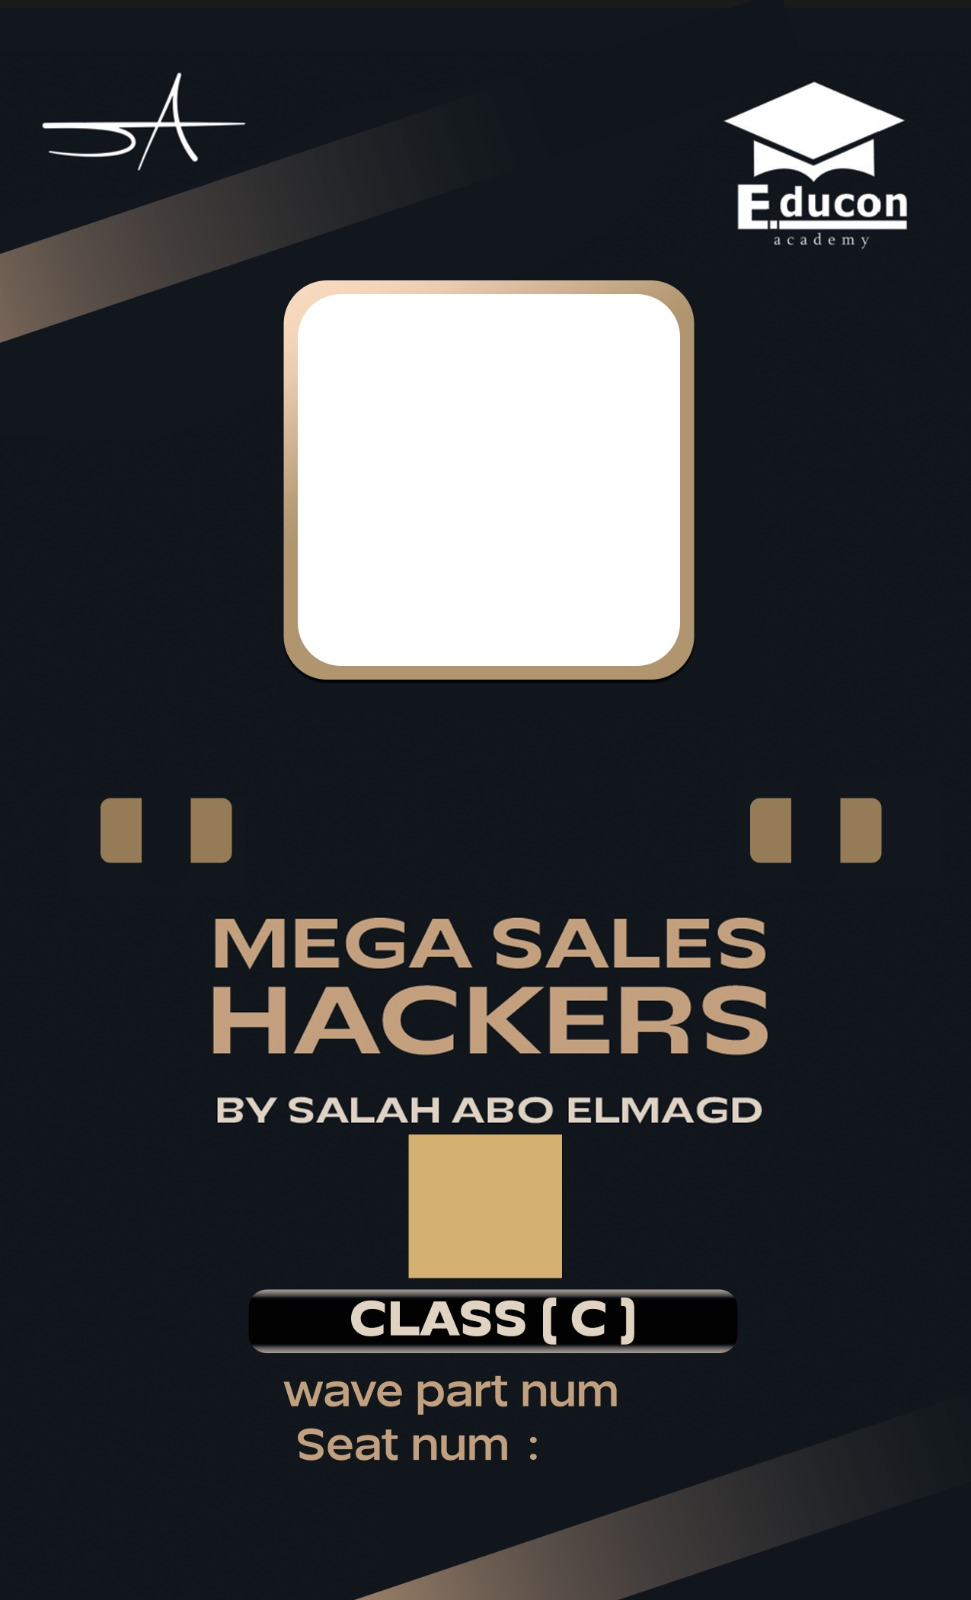
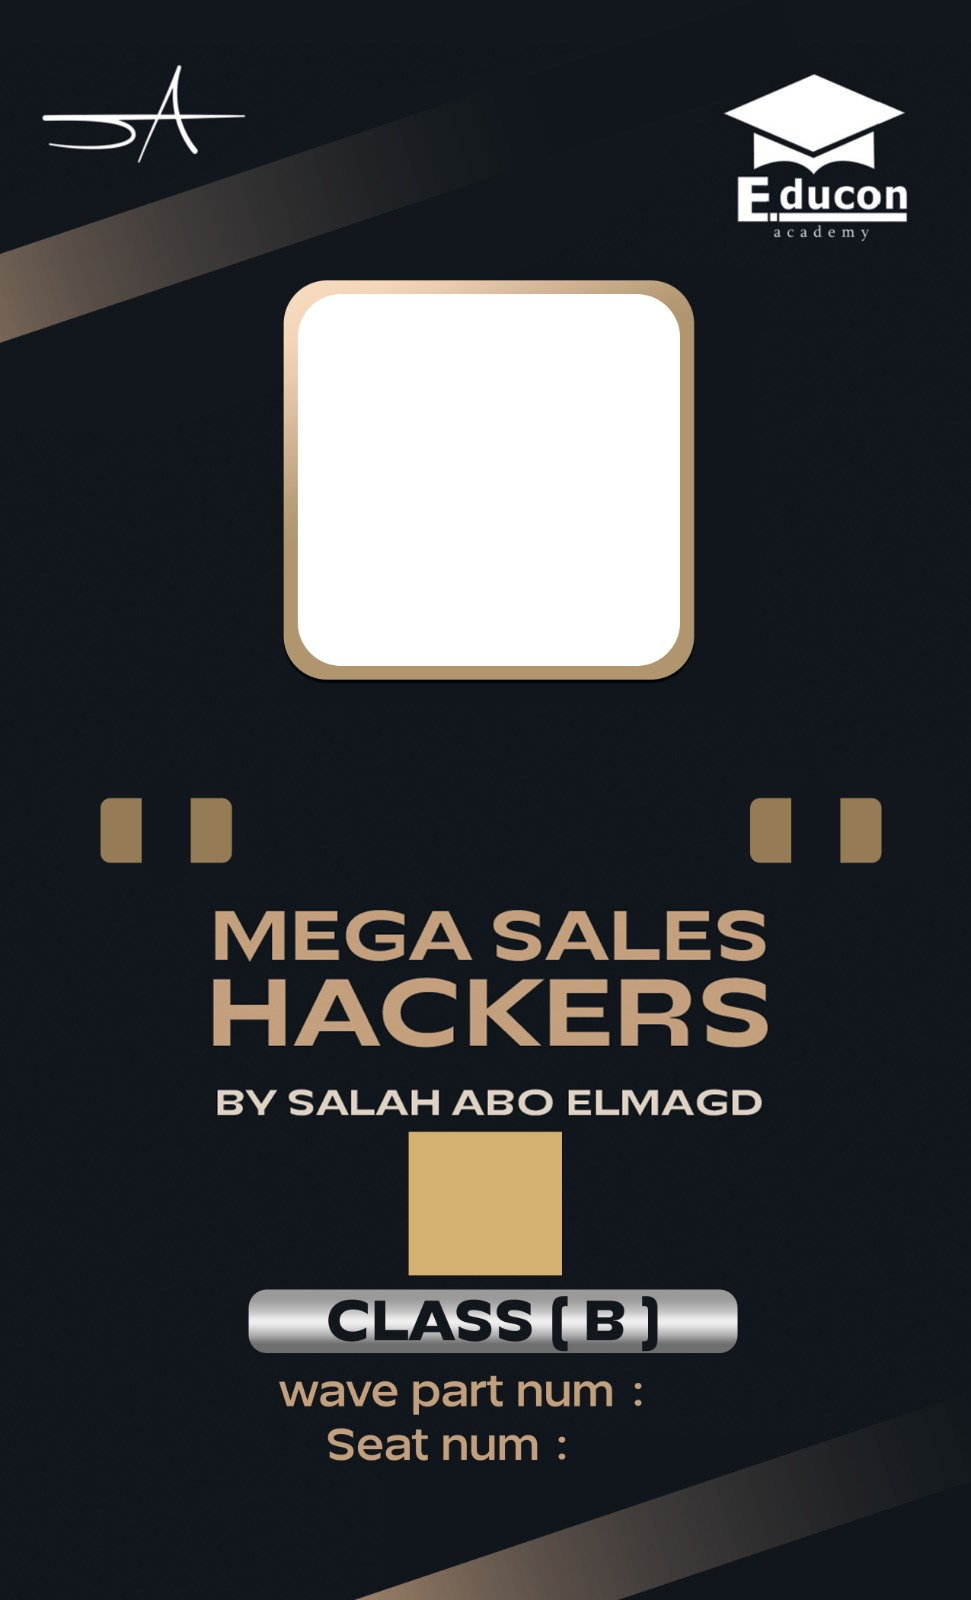
Update ticket-front-b template and bump version

diff --git a/src/pages/IDCard.tsx b/src/pages/IDCard.tsx
@@ -18,7 +18,7 @@ const IDCard: React.FC = () => {
   const previewMode = (searchParams.get('template') || 'ticket') as 'ticket' | 'back' | 'certificate';
   const TICKET_WIDTH_MM = 85;
   const TICKET_HEIGHT_MM = 140;
-  const TEMPLATE_VERSION = '20260416';
+  const TEMPLATE_VERSION = '20260416_v2';
   const [attendee, setAttendee] = useState<Attendee | null>(null);
   const [seatInfo, setSeatInfo] = useState<any>(null);
   const [loading, setLoading] = useState(true);
